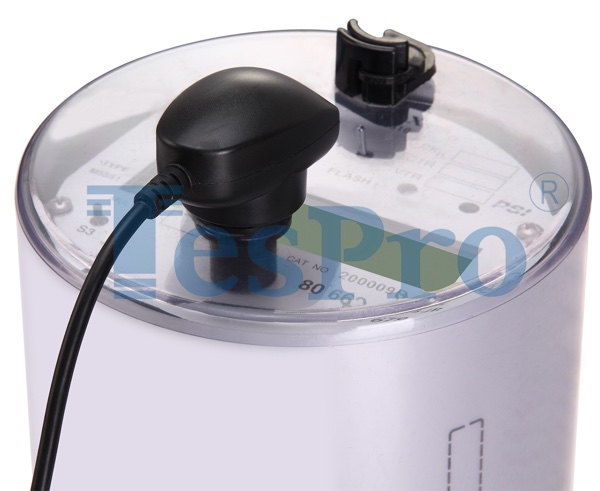
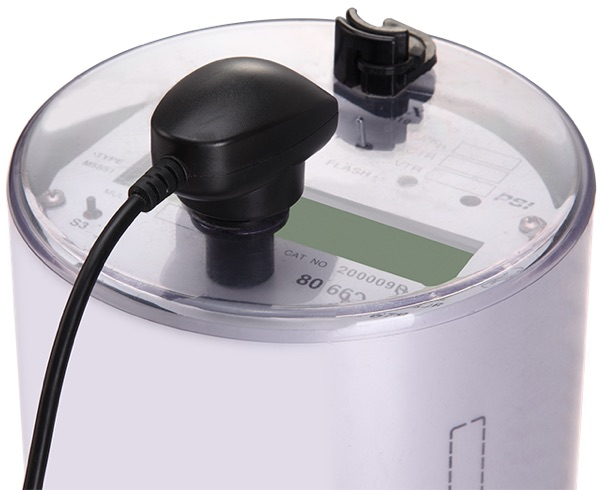
把沈俊旺的照片更新上去

Changed region(s): [[0.0, 0.0, 1.0, 1.0], [0.75, 0.8571, 0.81, 1.0], [0.75, 0.398, 0.81, 0.4286]]

diff --git a/css/tp_style.less b/css/tp_style.less
@@ -31,7 +31,7 @@
 #content {background-color: white; padding-bottom: 6em;}
 // #content a, #Content a:visited{ padding-bottom:0.1em; line-height:190%}
 // #content a:hover{color:#3863AA}
-div.col-sm-4.right-column img{width: 100%;}
+div.col-sm-4.right-column img{width: 300px;}
 /*** End ***/
 
 

diff --git a/css/tespro.css b/css/tespro.css
@@ -4325,7 +4325,7 @@ fieldset[disabled] .navbar-inverse .btn-link:focus {
   padding-bottom: 6em;
 }
 div.col-sm-4.right-column img {
-  width: 100%;
+  width: 300px;
 }
 /*** End ***/
 /*** Jumbo Title ***/

diff --git a/en/TP-GS.php b/en/TP-GS.php
@@ -15,14 +15,14 @@
 					<p>TP-GS Versatile Probe Bracket is used for scanning probe fastening onto energy meters. TP-GS was invented by Tespro and can be widely used in accuracy test for both Ferraris and electronics meters.</p>
 			  </div>
 			  <div class="col-md-4 col-sm-5">
-			  	<img src="images/banners/reading-meter.png" />
+			  	<img src="images/banners/tp-gs.png" />
 			  </div>
 			</div>		
 		</div>
 	</div><!-- ./Jumbo Title -->
 	<div class="container">
 		<div class="row">
-			<div class="col-sm-8">
+			<div class="col-sm-7">
 			<h3>Generations</h3>
 			<ul>
 				<li>TP-GS2 (2nd Generation)</li>
@@ -40,7 +40,7 @@
 			</ul>
 			</div>
 			<div class="col-sm-4 right-column">
-				<img src="images/products/product_TP-GS08.jpg" alt="TP-GS Versatile Probe Bracket" />
+				<!-- <img src="images/products/product_TP-GS08.jpg" alt="TP-GS Versatile Probe Bracket" /> -->
 				<img src="images/products/product_TP-GS08_demo.jpg" alt="TP-GS Versatile Probe Bracket" />
 			</div>
 		</div><!-- ./row -->

diff --git a/en/TP-18.php b/en/TP-18.php
@@ -15,14 +15,14 @@
 					<p>TP-18 Active/Reactive Paired Optical Probe was designed for meter active and reactive accuracy testing at the same time.</p>
 			  </div>
 			  <div class="col-md-4 col-sm-5">
-			  	<img src="images/banners/reading-meter.png" />
+			  	<img src="images/banners/tp-18.png" />
 			  </div>
 			</div>		
 		</div>
 	</div><!-- ./Jumbo Title -->
 	<div class="container">
 		<div class="row">
-			<div class="col-sm-8">
+			<div class="col-sm-7">
 				<h3>Features:</h3>
 				<ul>
 					<li>Can be used when active/reactive pulse sources in a short distance of 10mm.</li>
@@ -42,7 +42,7 @@
 				<p>Note: <a href="en/TP-GS.php">TP-GS</a> Fixture must be used for probes adhesion onto meters.</p>
 			</div>
 			<div class="col-sm-4 right-column">
-				<img src="images/products/product_TP-18.jpg" alt="Slim Optical Scanning Probe" />
+				<!-- <img src="images/products/product_TP-18.jpg" alt="Slim Optical Scanning Probe" /> -->
 			</div>
 		</div><!-- ./row -->
 	</div><!-- ./container -->

diff --git a/zh/TP-13.php b/zh/TP-13.php
@@ -15,7 +15,7 @@
 					<!-- <p>2002年泰易开创性地采用RS232接口供电，领先于国际，从此去掉附加电池盒，为使用光电头减轻包袱，应用提速。</p> -->
 			  </div>
 			  <div class="col-md-4 col-sm-5">
-			  	<img src="images/banners/reading-meter.png" />
+			  	<img src="images/banners/tp-13.png" />
 			  </div>
 			</div>		
 		</div>
@@ -35,8 +35,8 @@
 				</ul>
 			</div><!-- ./Left Column -->
 			<div class="col-sm-4 right-column"><!-- Right Column -->
-				<img src="images/products/product_TP-13-1.jpg" alt="TP-13 双脉冲电表校验光电头" />
-			<img src="images/products/product_TP-13-2.jpg" alt="TP-13 双脉冲电表校验光电头" />
+				<img src="images/products/product_TP-13.jpg" alt="TP-13 双脉冲电表校验光电头" />
+			<!-- <img src="images/products/product_TP-13-2.jpg" alt="TP-13 双脉冲电表校验光电头" /> -->
 			</div>
 		</div>
 	</div>

diff --git a/en/TP-USB.php b/en/TP-USB.php
@@ -24,7 +24,7 @@
 
 	<div class="container">
 		<div class="row">
-			<div class="col-sm-12">
+			<div class="col-sm-7">
 				<h3>Sub-models</h3>
 				<ul>
 					<li>TP-USB-IEC</li>
@@ -78,6 +78,12 @@
 				<h3>Drivers</h3>
 				<a class="btn btn-success btn-lg" href="en/download/TP-USB.zip">Download the USB driver for Windows</a>
 			</div>
+			<div class="col-sm-4 right-column"><!-- Right Column -->
+				<!-- <img src="images/products/product_TP-USB.jpg" alt="TP-USB USB接口电表光电头" /> -->
+				<img src="images/products/product_TP-USB-ANSI_demo.jpg" alt="TP-USB USB接口电表光电头" />
+				<br /><br /><br /><br />
+				<img src="images/products/product_TP-USB_demo2.jpg" alt="TP-USB 光电头应用与热能表" />
+			</div> 
 		</div>
 	</div>
 </div><!--End of content-->

diff --git a/zh/TP-GS.php b/zh/TP-GS.php
@@ -15,7 +15,7 @@
 					<p>国家发明专利</p>
 			  </div>
 			  <div class="col-md-4 col-sm-5">
-			  	<img src="images/banners/reading-meter.png" />
+			  	<img src="images/banners/tp-gs.png" alt="TP-GS 通用光电头活动支架" />
 			  </div>
 			</div>		
 		</div>
@@ -50,7 +50,7 @@
 			</div><!-- ./Left Column -->
 			<div class="col-sm-4 right-column"><!-- Right Column -->
 				<!-- <img src="images/products/product_TP-GS08.jpg" alt="TP-GS 通用光电头活动支架" /> -->
-				<!-- <img src="images/products/product_TP-GS08_demo.jpg" alt="TP-GS 通用光电头活动支架" /> -->
+				<!-- <img src="images/products/product_TP-GS_demo.jpg" alt="TP-GS 通用光电头活动支架" /> -->
 			</div>
 		</div>
 	</div>

diff --git a/zh/TP-18.php b/zh/TP-18.php
@@ -15,7 +15,7 @@
 					<!-- <p>2002年泰易开创性地采用RS232接口供电，领先于国际，从此去掉附加电池盒，为使用光电头减轻包袱，应用提速。</p> -->
 			  </div>
 			  <div class="col-md-4 col-sm-5">
-			  	<img src="images/banners/reading-meter.png" />
+			  	<img src="images/banners/tp-18.png" />
 			  </div>
 			</div>		
 		</div>
@@ -39,7 +39,7 @@
 				</ul>
 			</div><!-- ./Left Column -->
 			<div class="col-sm-4 right-column"><!-- Right Column -->
-				<img src="images/products/product_TP-18.jpg" alt="TP-18 窄距式校验光电头" />
+				<!-- <img src="images/products/product_TP-18.jpg" alt="TP-18 窄距式校验光电头" /> -->
 			</div>
 		</div>
 	</div>

diff --git a/zh/TP-16.php b/zh/TP-16.php
@@ -35,9 +35,9 @@
 				</ul>
 			</div><!-- ./Left Column -->
 			<div class="col-sm-4 right-column"><!-- Right Column -->
-				<img src="images/products/product_TP-16-1.jpg" alt="TP-16-PR-x S进口现校仪校验光电头 " />
+				<!-- <img src="images/products/product_TP-16-1.jpg" alt="TP-16-PR-x S进口现校仪校验光电头 " /> -->
 				<!-- <img src="images/products/product_TP-16-2.jpg" alt="TP-16-PR-x S进口现校仪校验光电头 " /> -->
-				<img src="images/products/product_TP-16.jpg" alt="TP-16-PR-x S进口现校仪校验光电头 " />
+				<!-- <img src="images/products/product_TP-16.jpg" alt="TP-16-PR-x S进口现校仪校验光电头 " /> -->
 			</div>
 		</div>
 	</div>

diff --git a/zh/TP-USB.php b/zh/TP-USB.php
@@ -41,8 +41,10 @@
 				<p>泰易追求细节完美，经过多年的改进，技术成熟，一体化结构，可靠耐用，值得信耐。</p>
 			</div><!-- ./Left Column -->
 			<div class="col-sm-4 right-column"><!-- Right Column -->
-				<img src="images/products/product_TP-USB.jpg" alt="TP-USB USB接口电表光电头" />
+				<!-- <img src="images/products/product_TP-USB.jpg" alt="TP-USB USB接口电表光电头" /> -->
 				<img src="images/products/product_TP-USB-ANSI_demo.jpg" alt="TP-USB USB接口电表光电头" />
+				<br /><br /><br /><br />
+				<img src="images/products/product_TP-USB_demo2.jpg" alt="TP-USB 光电头应用与热能表" />
 			</div>
 		</div>
 	</div>

diff --git a/en/TP-17.php b/en/TP-17.php
@@ -15,14 +15,14 @@
 					<p>TP-17A Multi-function Optical Probe has been designed for accuracy testing of both Ferraris and static meters.</p>
 			  </div>
 			  <div class="col-md-4 col-sm-5">
-			  	<img src="images/banners/reading-meter.png" />
+			  	<img src="images/banners/tp-17.png" />
 			  </div>
 			</div>		
 		</div>
 	</div><!-- ./Jumbo Title -->
 	<div class="container">
 		<div class="row">
-			<div class="col-sm-8">
+			<div class="col-sm-7">
 				<h3>Application</h3>
 				<ul>
 					<li>Can be used for both Ferraris and statistics meters accuracy testing, functions switching by push button.</li>

diff --git a/zh/TG-MTS-CN.php b/zh/TG-MTS-CN.php
@@ -53,8 +53,8 @@
 				</ul>
 			</div><!-- ./Left Column -->
 			<div class="col-sm-4 right-column"><!-- Right Column -->
-				<!-- <img src="images/products/product_TG-MTS-CN-1.jpg" alt="TG-MTS-CN 三相电表维修测试台" />
-				<img src="images/products/product_TG-MTS-CN-2.jpg" alt="TG-MTS-CN 三相电表维修测试台" /> -->
+				<img src="images/products/product_TG-MTS_demo.jpg" alt="TG-MTS-CN 三相电表维修测试台" />
+				<!-- <img src="images/products/product_TG-MTS-CN-2.jpg" alt="TG-MTS-CN 三相电表维修测试台" /> -->
 			</div>
 		</div>
 	</div>
